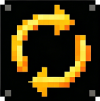
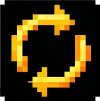
fix: 修复动画第一次不播放的问题

diff --git a/assets/resources/scripts/ui/VfxManager.ts b/assets/resources/scripts/ui/VfxManager.ts
@@ -200,6 +200,19 @@ export class VfxManager extends Component {
         let totalCount = 0;
         this._controllers.forEach(arr => totalCount += arr.length);
         console.log(`[VfxManager] 初始化完成，共注册 ${totalCount} 个 VFX 控制器`);
+
+        // 打印 autoing 详细信息
+        if (this.autoingVfx) {
+            console.log(`[VfxManager] autoingVfx 节点 active=${this.autoingVfx.active}, 子节点数=${this.autoingVfx.children.length}`);
+            const ctrl = this.autoingVfx.getComponent(VfxController);
+            if (ctrl) {
+                console.log(`[VfxManager] autoingVfx VfxController animation=${!!ctrl.animation}, clips=${ctrl.animation?.clips.length ?? 0}`);
+            } else {
+                console.warn('[VfxManager] autoingVfx 节点未挂载 VfxController!');
+            }
+        } else {
+            console.error('[VfxManager] autoingVfx 节点未配置!');
+        }
     }
 
     /**
@@ -263,7 +276,9 @@ export class VfxManager extends Component {
      */
     private playLoopingVfx(name: string): void {
         const controllers = this.getControllers(name);
+        console.log(`[VfxManager] playLoopingVfx('${name}'), controllers=${controllers.length}`);
         for (const ctrl of controllers) {
+            console.log(`[VfxManager] 调用 VfxController.playLooping(), node=${ctrl.node?.name}`);
             ctrl.playLooping();
         }
     }
@@ -274,6 +289,7 @@ export class VfxManager extends Component {
      */
     private stopLoopingVfx(name: string): void {
         const controllers = this.getControllers(name);
+        console.log(`[VfxManager] stopLoopingVfx('${name}'), controllers=${controllers.length}`);
         for (const ctrl of controllers) {
             ctrl.stopLooping();
         }
@@ -356,7 +372,8 @@ export class VfxManager extends Component {
      * 触发时机：开始自动翻转时
      */
     playAutoing(): void {
-        this.playVfx('autoing', 0);
+        console.log('[VfxManager] playAutoing 被调用');
+        this.playLoopingVfx('autoing');
         this.playAudioClip(this.autoStartClip);
     }
 
@@ -365,7 +382,8 @@ export class VfxManager extends Component {
      * 触发时机：停止自动翻转时
      */
     stopAutoing(): void {
-        this.stopVfx('autoing');
+        console.log('[VfxManager] stopAutoing 被调用');
+        this.stopLoopingVfx('autoing');
         this.playAudioClip(this.autoStopClip);
     }
 

diff --git a/assets/resources/scripts/ui/VfxController.ts b/assets/resources/scripts/ui/VfxController.ts
@@ -93,13 +93,14 @@ export class VfxController extends Component {
      * 开始循环播放（如果已在循环中则不重启动画）
      */
     playLooping(): void {
+        console.log(`[VfxController] playLooping 被调用, node=${this.node?.name}, animation=${!!this.animation}`);
         if (!this.animation) {
             console.warn('[VfxController] playLooping 失败: animation 为空');
             return;
         }
 
-        // 如果已经在循环播放，不重启动画
         if (this._isLooping) {
+            console.log('[VfxController] playLooping: 已在循环中，跳过重启');
             return;
         }
 
@@ -108,15 +109,28 @@ export class VfxController extends Component {
             this._hideTimer = null;
         }
 
-        this.node.active = true;
-        this._isPlaying = true;
-        this._isLooping = true;
+        const clipName = this.animation.defaultClip?.name ?? (this.animation.clips.length > 0 ? this.animation.clips[0].name : '');
+        console.log(`[VfxController] playLooping: clipName='${clipName}'`);
 
-        if (this.animation.clips.length > 0) {
-            this.animation.clips[0].wrapMode = 2;
+        if (clipName) {
+            // 停止当前播放并重置状态
+            this.animation.stop();
+
+            // 设置循环模式
+            if (this.animation.clips.length > 0) {
+                this.animation.clips[0].wrapMode = 2;
+            }
+
+            this.node.active = true;
+            this._isPlaying = true;
+            this._isLooping = true;
+
+            // 播放指定动画
+            this.animation.play(clipName);
+            console.log('[VfxController] playLooping: animation.play() 已调用');
+        } else {
+            console.warn('[VfxController] playLooping: 无可用动画');
         }
-
-        this.animation.play();
     }
 
     /**

diff --git a/assets/resources/scripts/core/GameManager.ts b/assets/resources/scripts/core/GameManager.ts
@@ -701,10 +701,12 @@ export class GameManager {
         console.log(`[GameManager] 开始自动翻转，持续 ${duration} 秒`);
 
         // 通知 UI
+        console.log(`[GameManager] notifyAutoFlipStart 回调数: ${this._autoFlipStartCallbacks.length}`);
         this.notifyAutoFlipStart(duration);
 
         // 使用 setInterval 按照动画速度定时翻转
         const intervalMs = this.getAnimDuration() * 1000;
+        console.log(`[GameManager] 自动翻转间隔: ${intervalMs}ms`);
         
         this._autoFlipTimer = window.setInterval(() => {
             if (!this._isAutoFlipping) {
@@ -712,8 +714,11 @@ export class GameManager {
                 return;
             }
 
-            this._autoFlipAccumulatedTime += this.getAnimDuration();
+            // 先准备结果，再执行翻转
+            this.prepareFlip();
             this.flipCoin();
+
+            this._autoFlipAccumulatedTime += this.getAnimDuration();
 
             // 通知剩余时间
             const remaining = Math.max(0, duration - this._autoFlipAccumulatedTime);
@@ -726,6 +731,7 @@ export class GameManager {
         }, intervalMs);
 
         // 立即执行第一次翻转
+        this.prepareFlip();
         this.flipCoin();
     }
 
